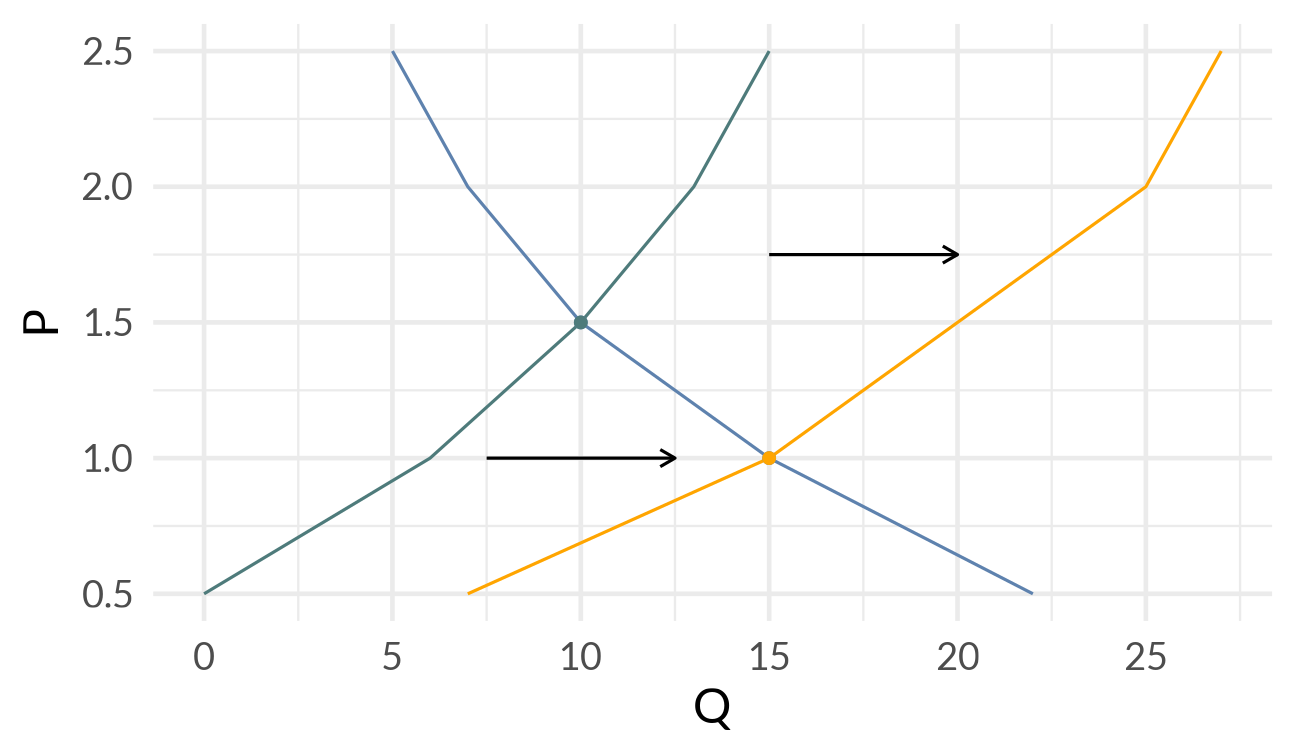
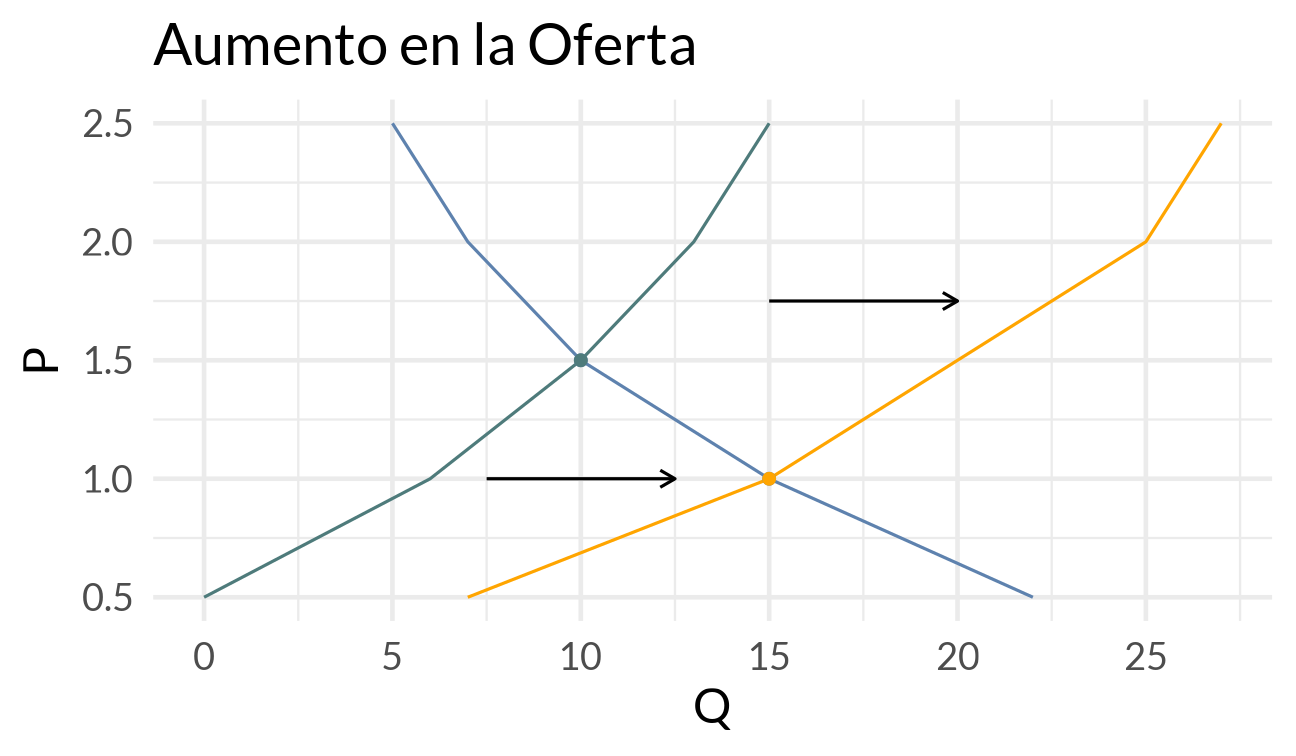
Emoji

diff --git a/index.html b/index.html
@@ -222,7 +222,7 @@ En matemáticas usamos funciones para analizar relaciones entre variables.
 ]
 
 ---
-## Desequilibrio: (P= $2)
+## Desequilibrio (P=$2)
 
 
 .right-column[
@@ -247,9 +247,20 @@ En matemáticas usamos funciones para analizar relaciones entre variables.
 
 ---
 
-##
-
+.pull-left[
 &lt;img src="index_files/figure-html/unnamed-chunk-3-1.png" width="100%" /&gt;
+
+- ⬆ el precio
+- ⬇ la cantidad
+
+]
+
+.pull-right[
+&lt;img src="index_files/figure-html/unnamed-chunk-4-1.png" width="100%" /&gt;
+
+- ⬆ el precio
+- ⬆ la cantidad
+]
 
 ---
 background-image: url(imgs/commodities_guerra.jpeg)
